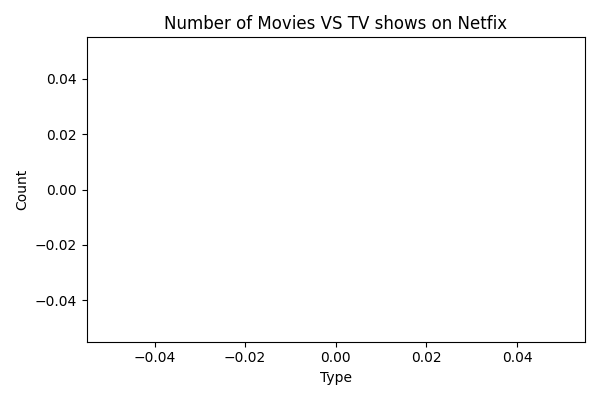
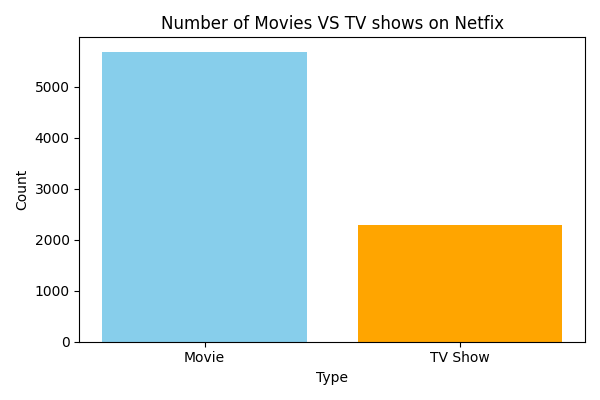
divya

diff --git a/ch 9 Project By Netfix Dataset/netfix.py b/ch 9 Project By Netfix Dataset/netfix.py
@@ -14,30 +14,50 @@ df=pd.read_csv("netflix_titles.csv")
 
 df=df.dropna(subset=['type','release_year','rating','country','duration'])
 type_counts= df['type'].value_counts()
-print(df[['type','release_year','rating','country','duration']].isnull().sum())
+
+# ! For Showing Relationship Between Movies Vs Tv shows (Bar Graph)
 plt.figure(figsize=(6,4))
 plt.bar(type_counts.index,type_counts.values,color=['skyblue','orange'])
 plt.title("Number of Movies VS TV shows on Netfix")
 plt.xlabel("Type")
 plt.ylabel("Count")
 plt.tight_layout()
-
 plt.savefig('movies_vs_tyshows.png')
+# plt.show()
+
+# ! For Showing Rating in Percentage (Pie chart)
+rating_counts=df['rating'].value_counts()
+plt.figure(figsize=(8,6))
+plt.pie(rating_counts,labels=rating_counts.index,autopct='%1.1f%%',startangle=90)
+plt.title("Percentage  of rating")
+plt.tight_layout()
+plt.savefig('content_rating_pie.png')
+# plt.show()
+
+
+# ! For showing Movies Duration according to Minutes (Histogram)
+movies_df=df[df['type']=="Movie"].copy()
+movies_df['duration_int']=movies_df['duration'].str.replace('min','').astype(int)
+
+plt.figure(figsize=(8,6))
+plt.hist(movies_df['duration_int'],bins=30,color='purple',edgecolor='black')
+plt.title('Distribution Of Movie Duration')
+plt.xlabel("Duration Minute")
+plt.ylabel("Number of Movies")
+plt.tight_layout()
+plt.savefig('movies_duration_histo.png')
 plt.show()
 
 
-# import matplotlib.pyplot as plt
 
-# # Only drop rows where 'type' is missing
-# df = df.dropna(subset=['type'])
-# type_counts = df['type'].value_counts()
+# movies_df = df[df['type'] == "Movie"].copy()
+# movies_df['duration_int'] = movies_df['duration'].str.replace('min', '').astype(int)
 
-# plt.figure(figsize=(6,4))
-# plt.bar(type_counts.index, type_counts.values, color=['skyblue','orange'])
-# plt.title("Number of Movies vs TV Shows on Netflix")
-# plt.xlabel("Type")
-# plt.ylabel("Count")
+# plt.figure(figsize=(8,6))
+# plt.hist(movies_df['duration_int'], bins=30, color='purple', edgecolor='black')
+# plt.title('Distribution Of Movie Duration')
+# plt.xlabel("Duration Minute")
+# plt.ylabel("Number of Movies")
 # plt.tight_layout()
-
-# plt.savefig('movies_vs_tvshows.png')
+# plt.savefig('movies_duration_histo.png')
 # plt.show()